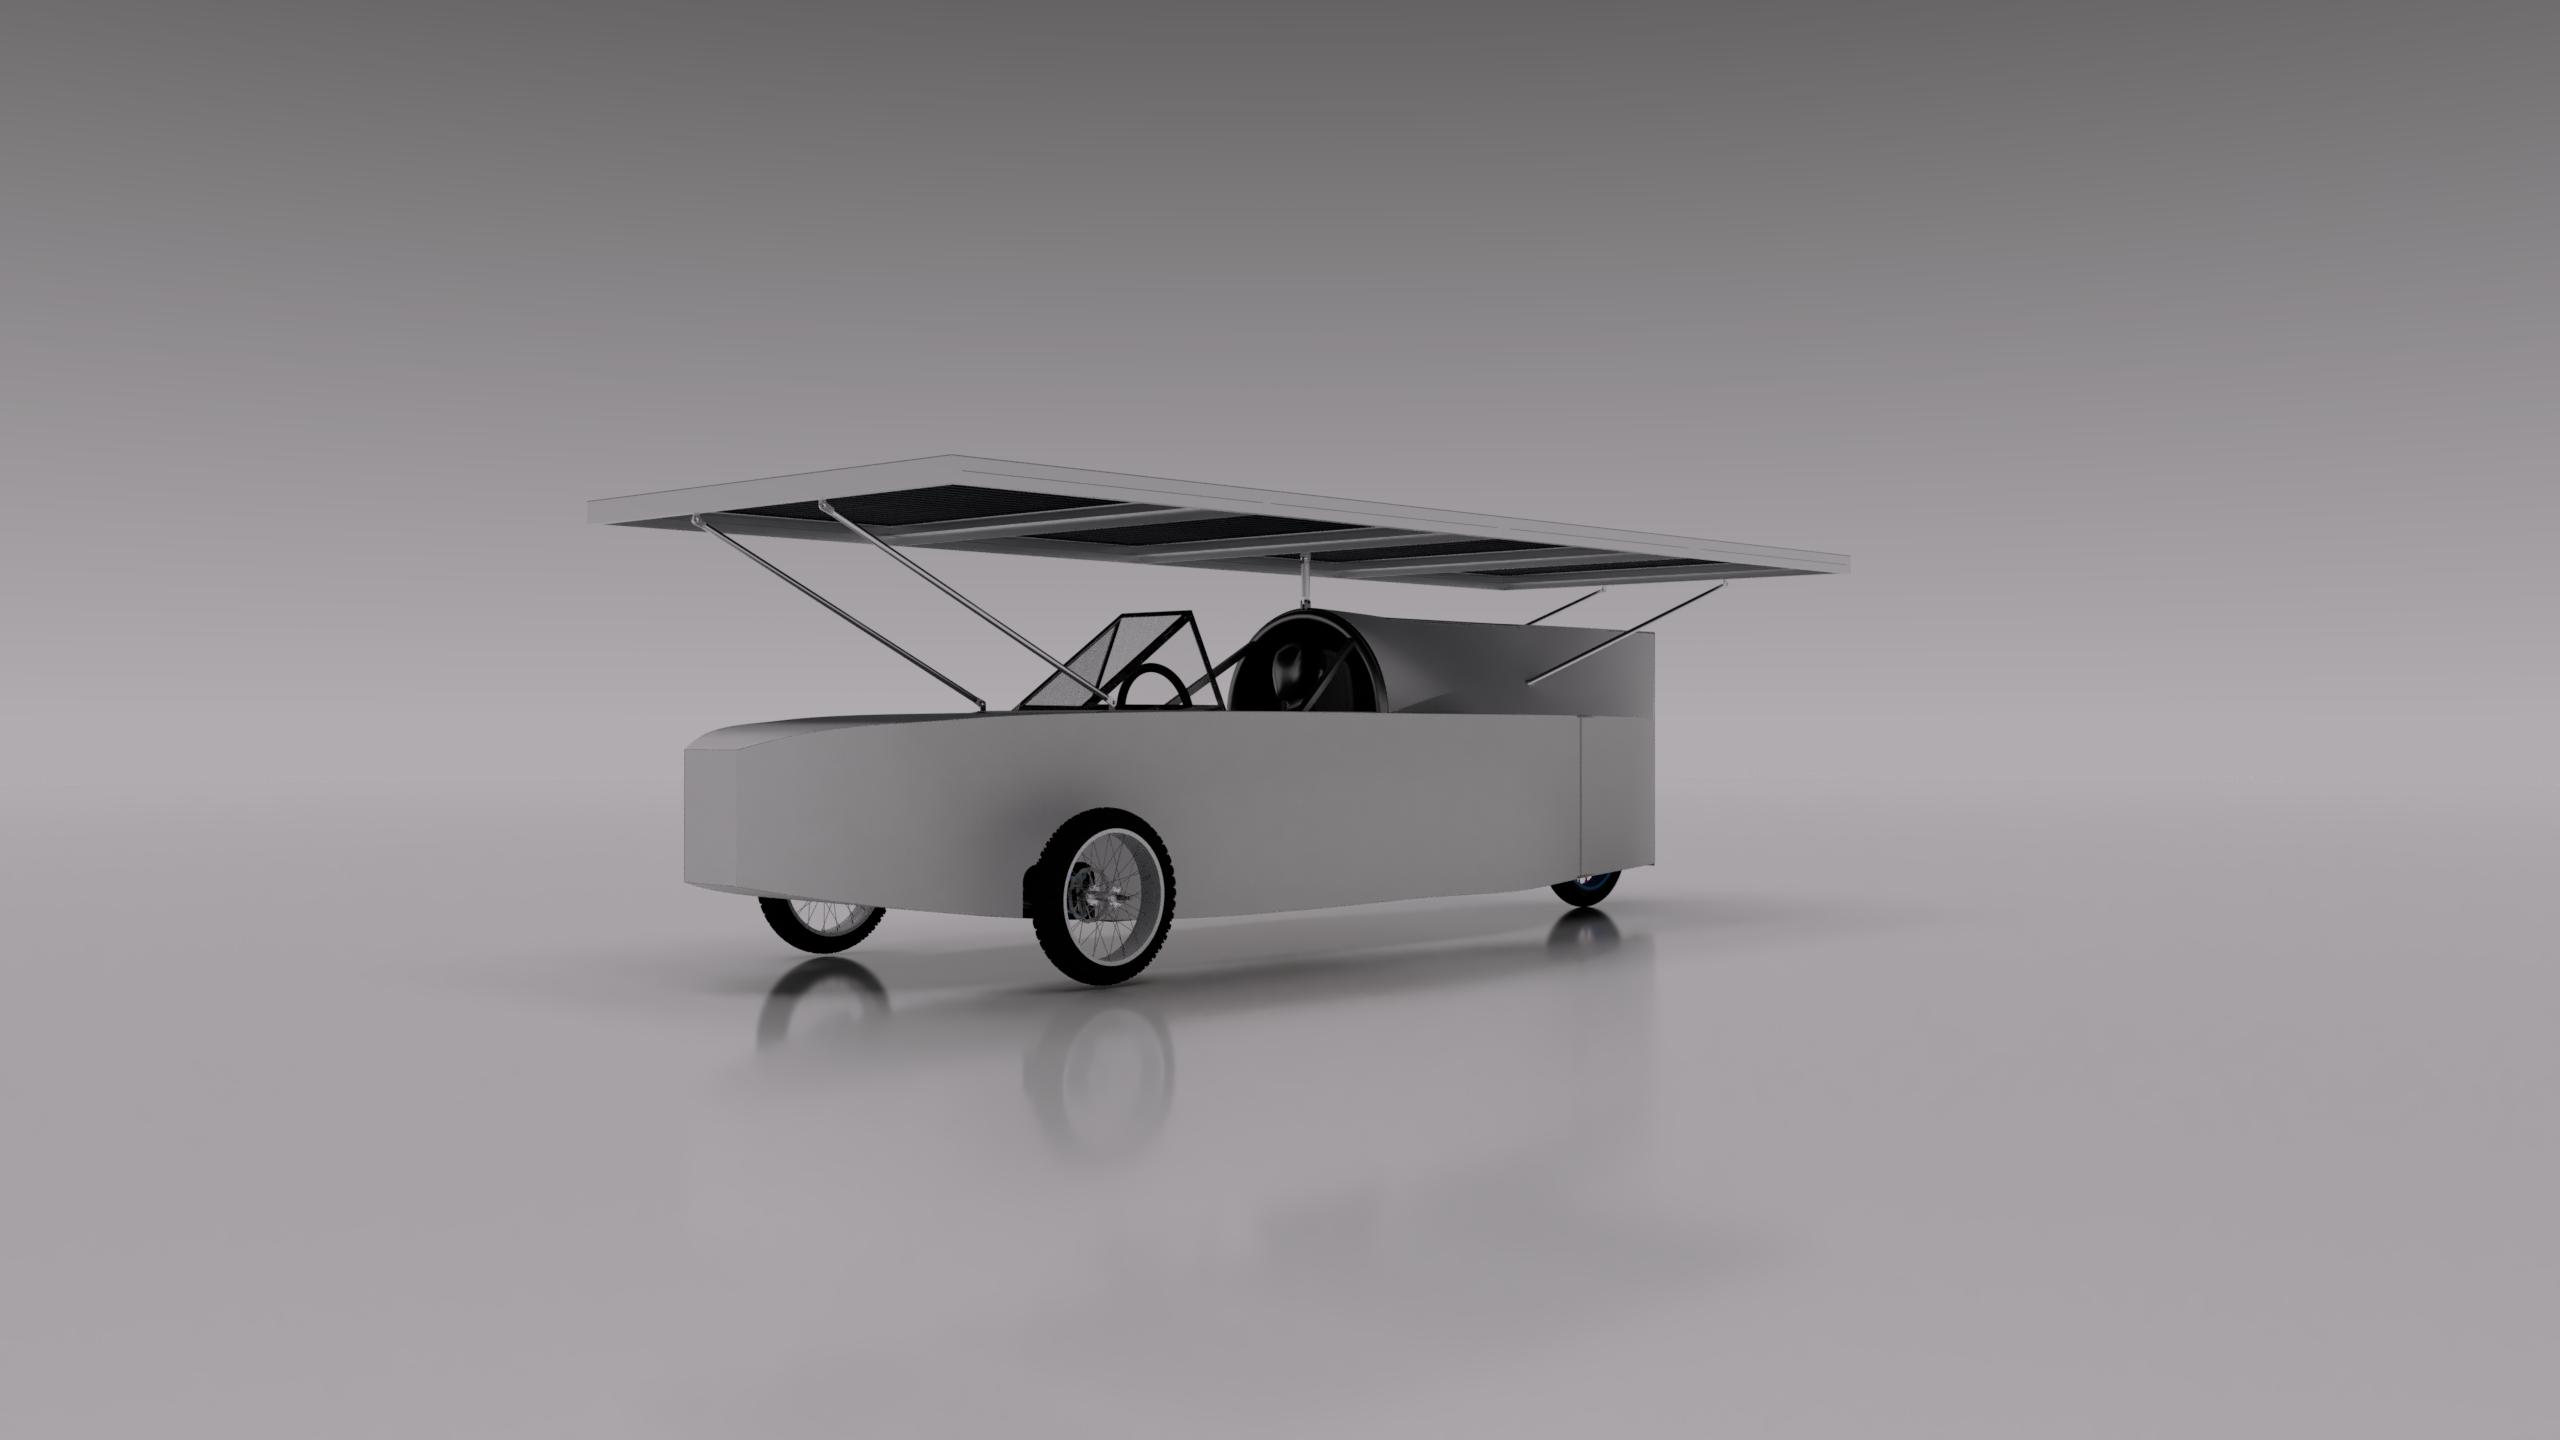
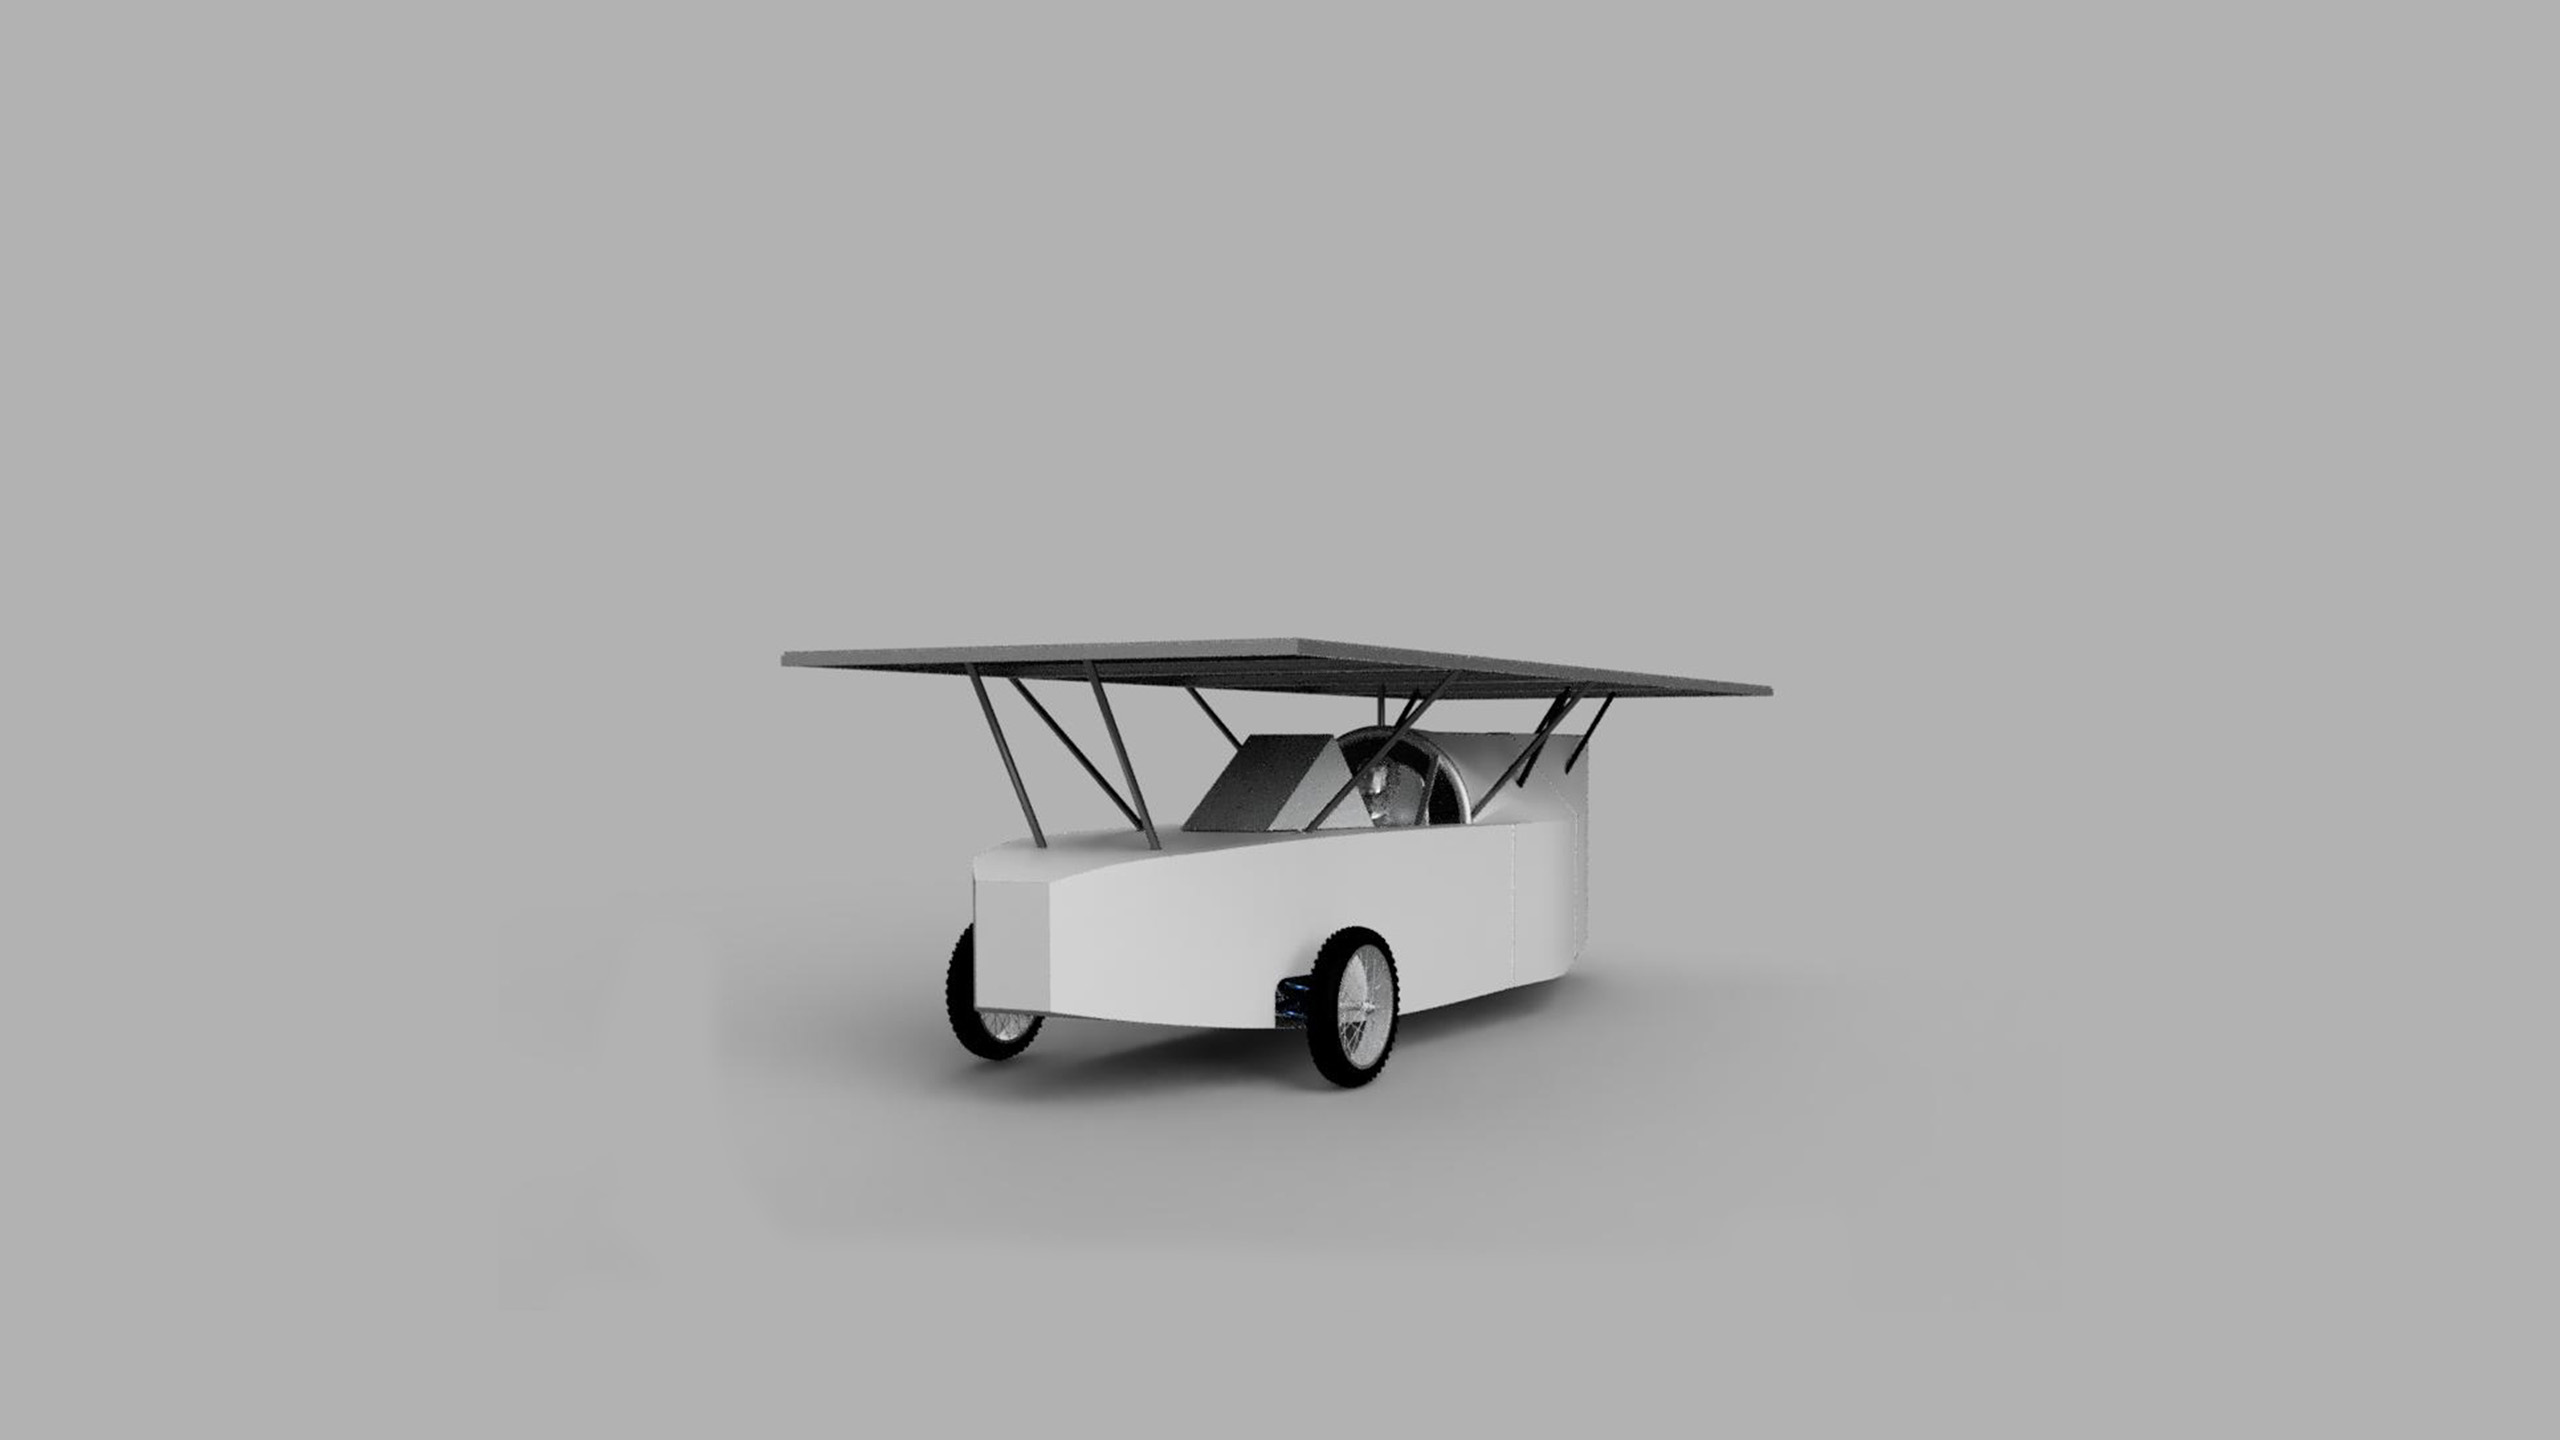
Updated Homepage Render
Modified the image in the front page.

diff --git a/solar car website/index.html b/solar car website/index.html
@@ -584,7 +584,7 @@ transform: rotate(90deg);
 
 </head>
 <body>
-  <img id ="myVideo" src="images/ImageTitle.jpg">
+  <img id ="myVideo" src="images/ImageTitle.png">
     
    
 
